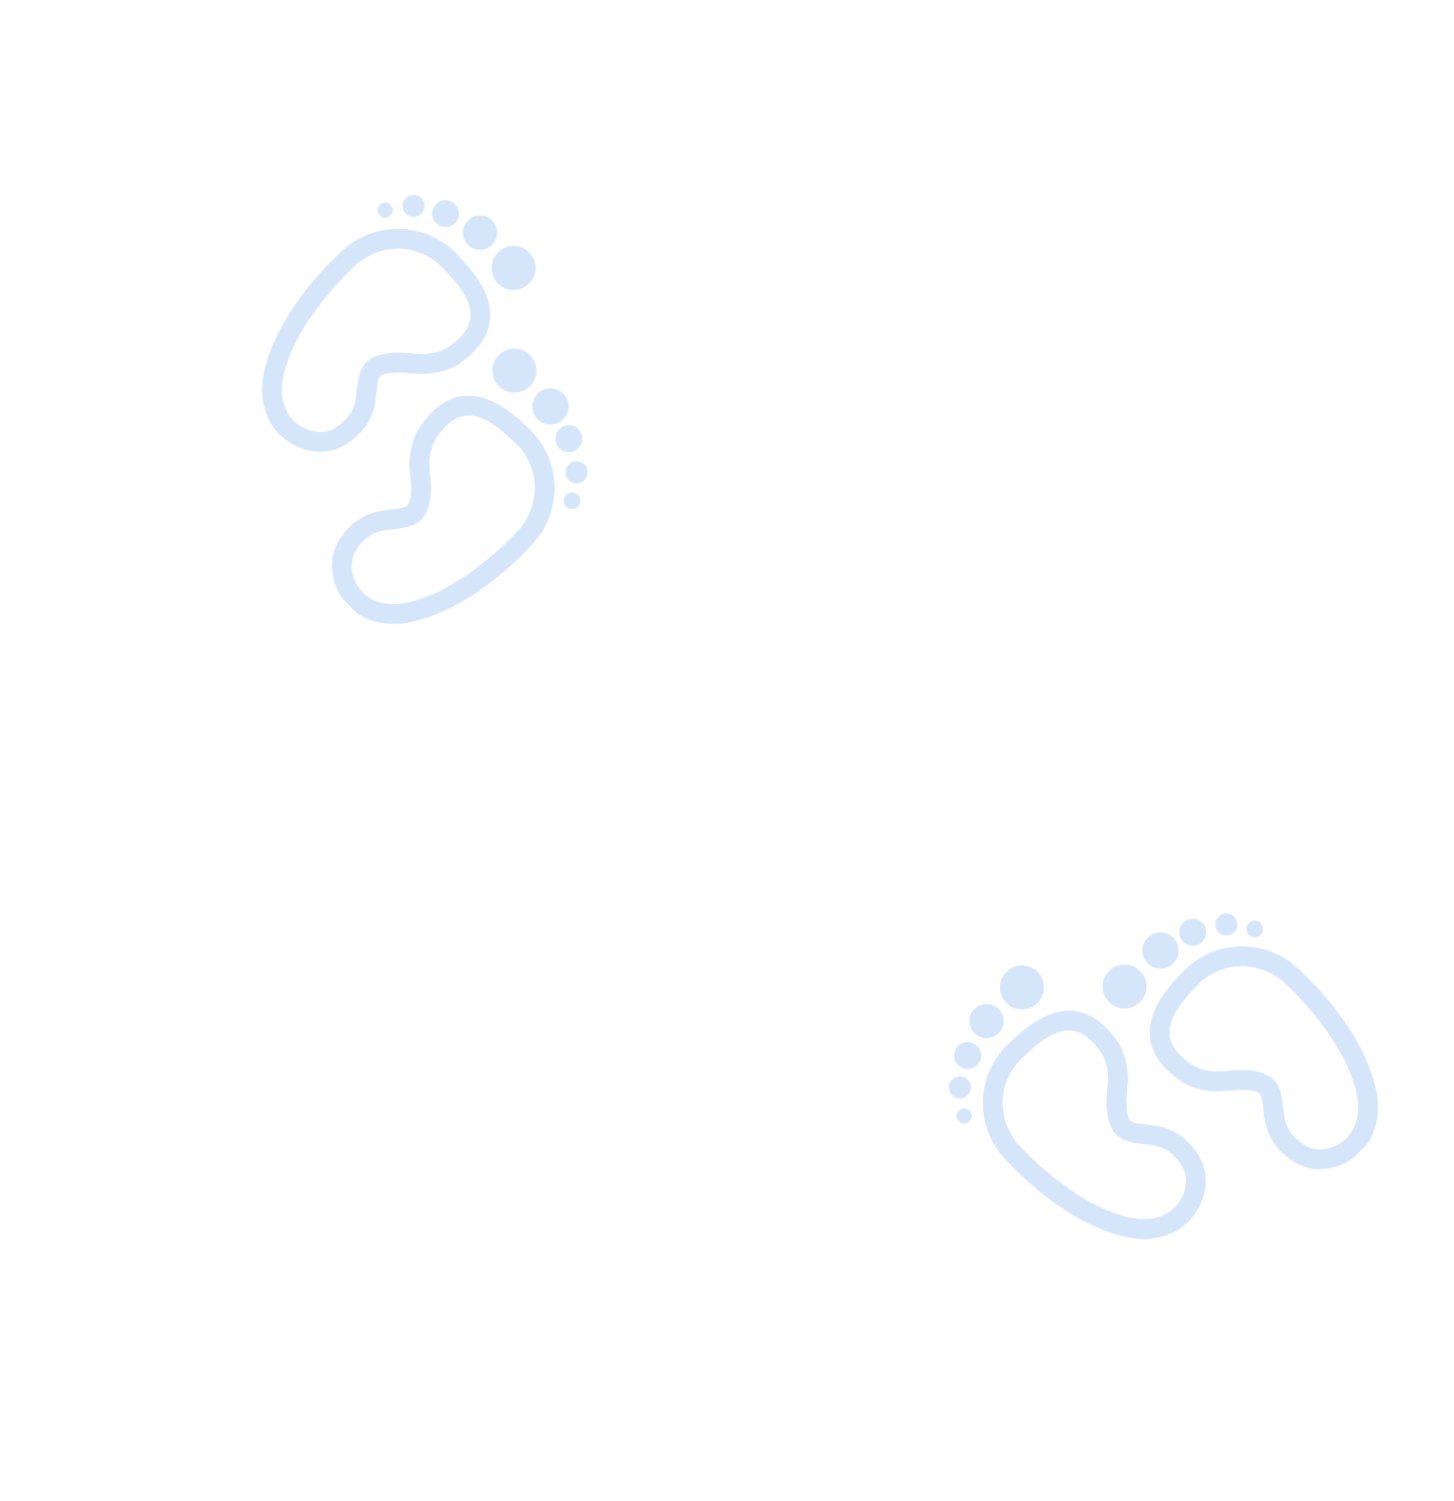
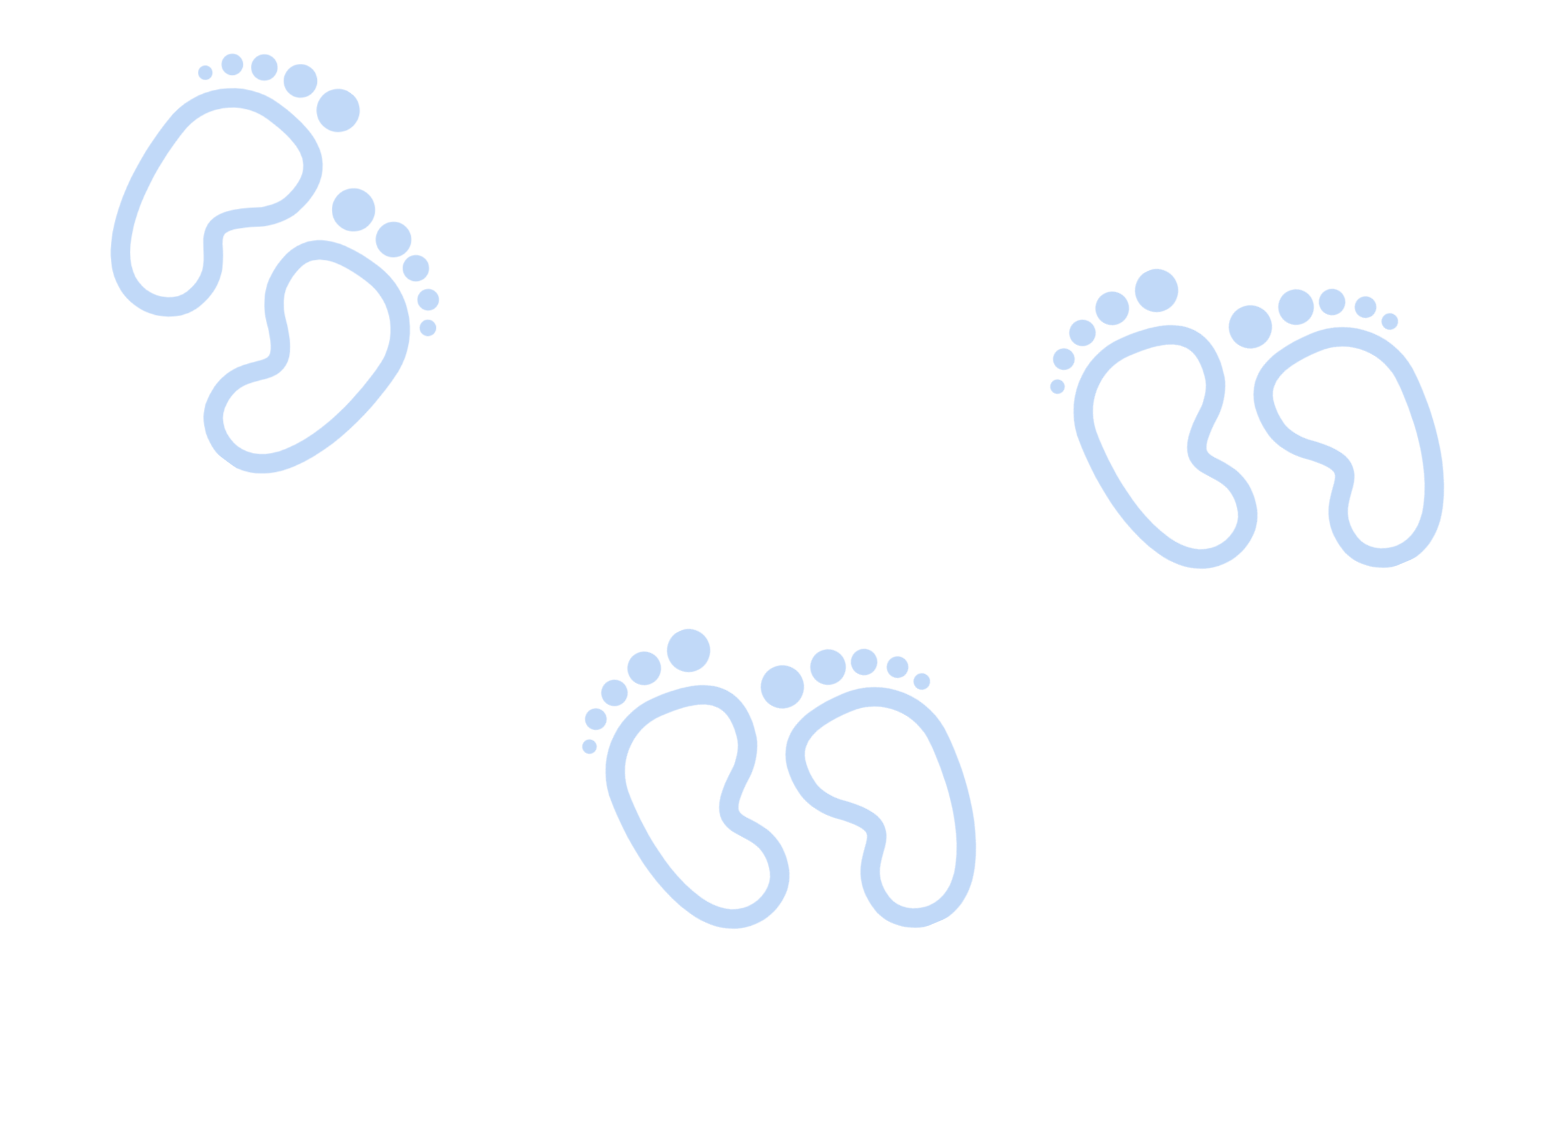
Use a repeating background image instead of the hand images.

Changed region(s): [[0.3714, 0.559, 0.9594, 0.8385], [0.0619, 0.0311, 0.4023, 0.4348], [0.6809, 0.2174, 0.9594, 0.528]]

diff --git a/styles/css/style.css b/styles/css/style.css
@@ -49,6 +49,12 @@ button {
 ul {
   list-style-type: none; }
 
+.feet {
+  background-image: url(../../assets/img/feet.png); }
+  .feet--home {
+    background-image: url(../../assets/img/feet-home.png);
+    background-position: top left; }
+
 .tick {
   margin-right: 1em; }
 
@@ -205,7 +211,8 @@ ul {
   text-align: center;
   font-size: 5.5rem; }
 .page__content {
-  margin-top: 7em; }
+  margin-top: 7em;
+  padding-bottom: 150px; }
 
 .section {
   font-size: 1rem;
@@ -225,8 +232,8 @@ ul {
 .footer {
   background-color: #3080E8;
   color: #707070;
-  margin-top: 150px;
-  padding: 40px 0px; }
+  padding: 40px 0px;
+  box-shadow: 3px 3px 10px #B4B4B4; }
   .footer__content {
     text-align: center;
     display: flex;

diff --git a/index.html b/index.html
@@ -45,7 +45,8 @@
 		</div>
 	</div>
 	
-
+	<div class="page__content feet feet--home">
+	
 	<div class="section">
 		<div class="container">
 			<h2 class="section__header">Our Promise</h2>
@@ -231,7 +232,8 @@
 			</div>
 		</div>
 	</div>
-
+	
+	</div>
 
 
 	<footer class="footer">
@@ -246,9 +248,7 @@
 				<i class="fab fa-facebook-f"></i>
 				<i class="fab fa-twitter"></i>
 			</div>
-		</div>
-
-		
+		</div>		
 	</footer>
 
 	<script src="assets/js/navigation.js"></script>

diff --git a/london.html b/london.html
@@ -35,7 +35,7 @@
 		</ul>
 	</nav>
 
-	<div class="page__content">
+	<div class="page__content feet">
 
 		<div class="container">
 			<h1 class="section__header">London</h1>
@@ -145,7 +145,7 @@
 			</div>
 		</div>
 
-
+	</div>
 
 	<footer class="footer">
 		<div class="container footer__content">

diff --git a/styles/sass/_reset.scss b/styles/sass/_reset.scss
@@ -30,3 +30,12 @@ button{
 ul{
 	list-style-type: none;
 }
+
+.feet{
+	background-image: url(../../assets/img/feet.png);
+
+	&--home{
+		background-image: url(../../assets/img/feet-home.png);
+		background-position: top left;
+	}
+}

diff --git a/styles/sass/components/_footer.scss b/styles/sass/components/_footer.scss
@@ -3,8 +3,9 @@ $img-width:175px;
 .footer{
 	background-color: $primary;
 	color:$dark-gray;
-	margin-top: 150px;
 	padding: 40px 0px;
+
+	box-shadow: $box-shadow;
 
 	&__content{
 		text-align: center;

diff --git a/signup.html b/signup.html
@@ -36,7 +36,7 @@
 	</nav>
 
 
-	<div class="page__content">
+	<div class="page__content feet feet--signup">
 		<div class="form__container">
 			<h1 class="section__header">Sign Up</h1>
 

diff --git a/login.html b/login.html
@@ -35,7 +35,7 @@
 		</ul>
 	</nav>
 	
-	<div class="page__content">
+	<div class="page__content feet feet--offset">
 
 
 		<div class="form__container">

diff --git a/location.html b/location.html
@@ -35,7 +35,7 @@
 		</ul>
 	</nav>
 
-	<div class="page__content">
+	<div class="page__content feet">
 
 		<div class="container">
 

diff --git a/styles/sass/components/_page.scss b/styles/sass/components/_page.scss
@@ -6,5 +6,6 @@
 
 	&__content{
 		margin-top:7em;
+		padding-bottom: 150px;
 	}
 }
